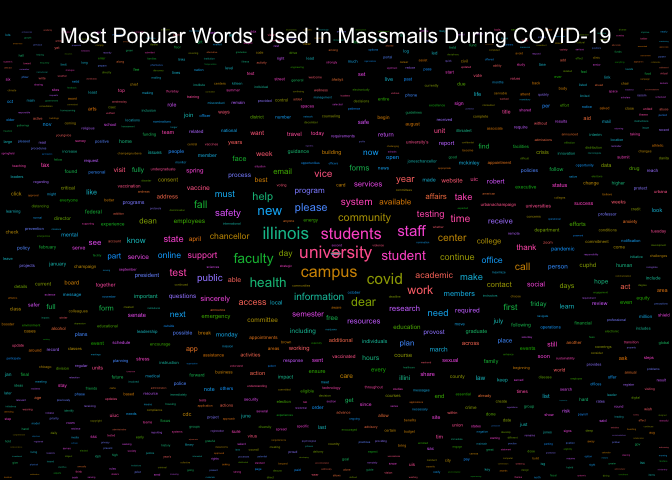
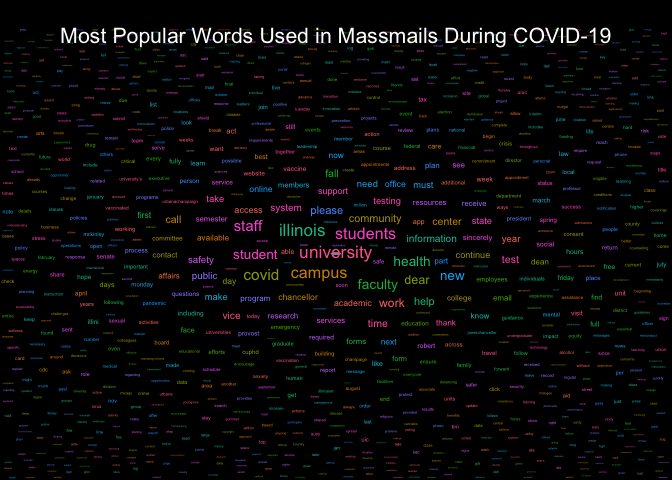
Re-build README.Rmd and Graphs

Changed region(s): [[0.0, 0.0625, 1.0, 1.0]]

diff --git a/README.md b/README.md
@@ -17,7 +17,7 @@ The archive may be viewed here:
 
 <https://massmail.illinois.edu/massmailArchive>
 
-Data has **1867** observations and **7** variables:
+Data has **1869** observations and **7** variables:
 
 - `datetime`: Date and time when the email was sent in the form of
   `YYYY-MM-DD HMS` with either CDT or CST.
@@ -210,16 +210,16 @@ head(most_popular_words, 10) %>%
 
 | word        | freq |
 |:------------|-----:|
-| university  | 2417 |
-| students    | 1997 |
+| university  | 2424 |
+| students    | 2017 |
 | campus      | 1768 |
-| illinois    | 1642 |
-| student     | 1224 |
-| faculty     | 1137 |
+| illinois    | 1646 |
+| student     | 1231 |
+| faculty     | 1142 |
+| health      | 1087 |
+| community   | 1071 |
 | covid       | 1070 |
-| community   | 1069 |
-| health      | 1061 |
-| information |  997 |
+| information | 1001 |
 
 #### Wordcloud
 
